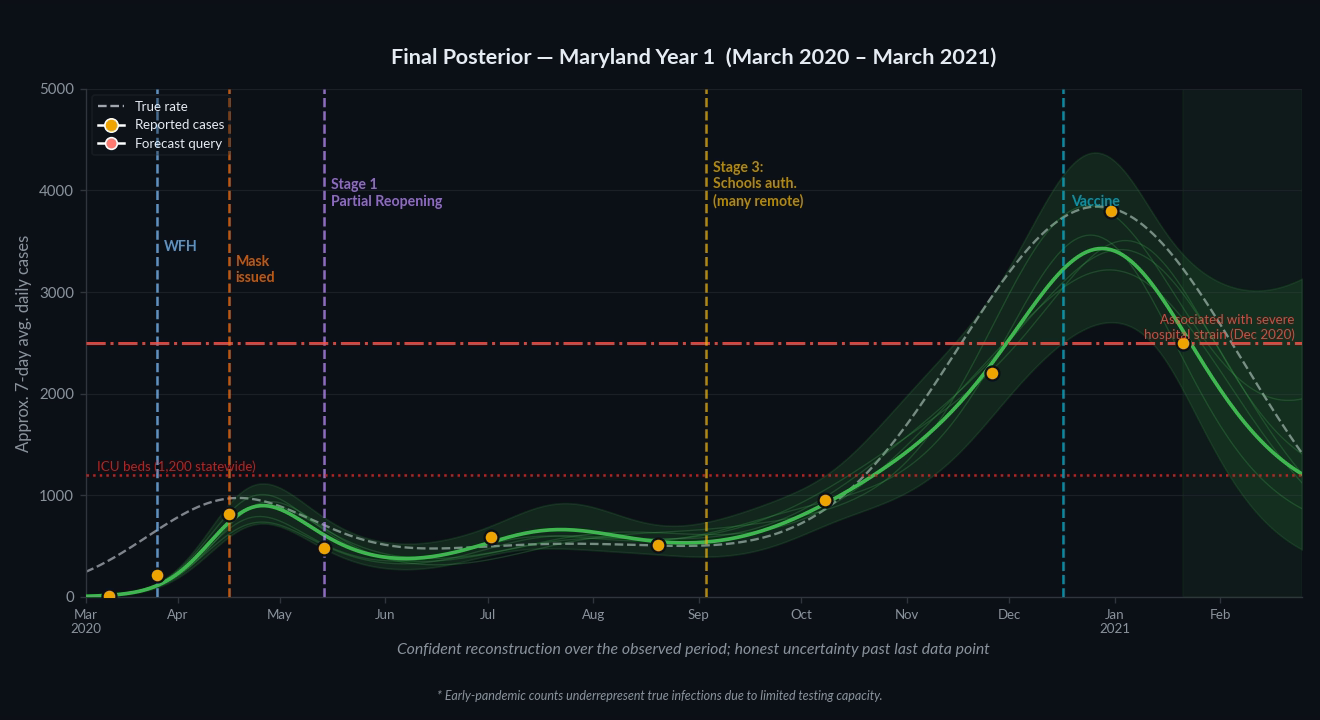
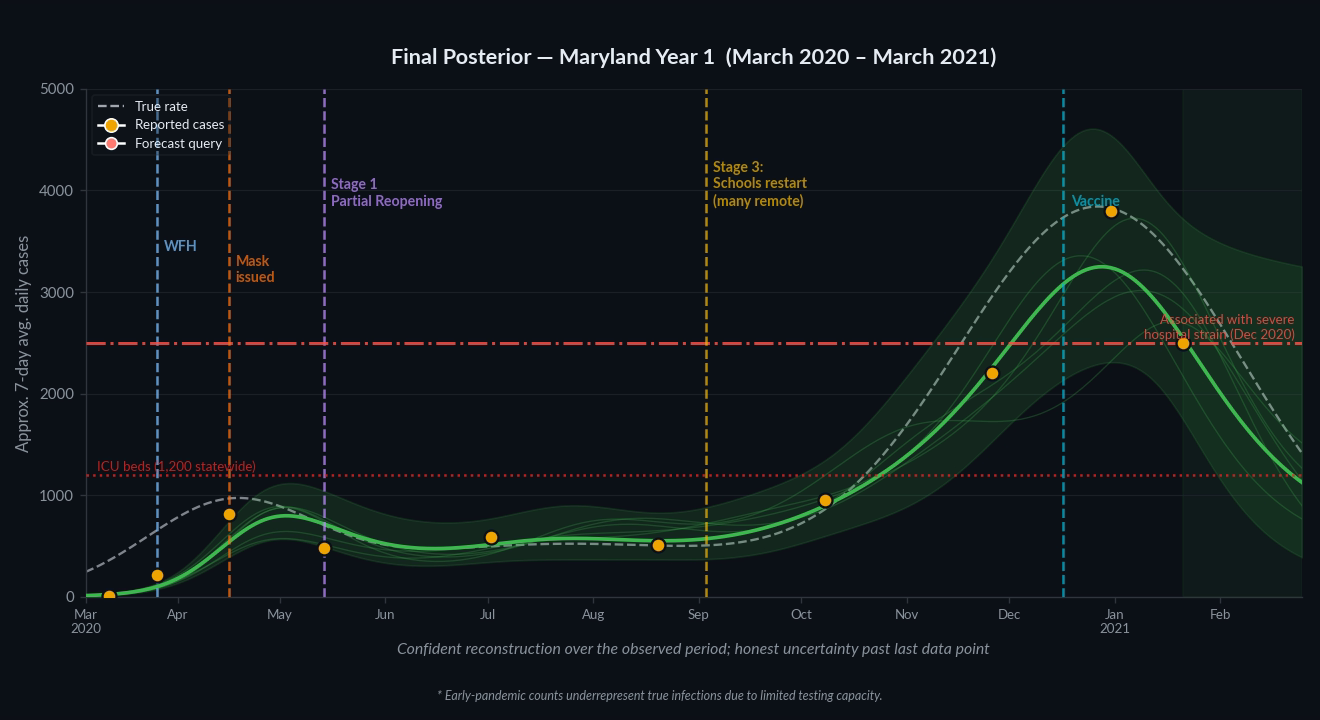
updating fonts

diff --git a/movid_forecasting_example.py b/movid_forecasting_example.py
@@ -83,7 +83,7 @@ SAMPLE_SEED       = 42     # RNG seed — change to see different plausible samp
 # ── GP kernel ─────────────────────────────────────────────────────────────────
 RBF_LENGTH_SCALE = 6.0    # smoothness: larger → longer correlation length
 RBF_LOG_STD      = 0.8    # signal amplitude in log-space (≈ log(1 + cases_std/prior_mean))
-PRIOR_MEAN       = 1000.0 # prior mean (cases/day): GP is centred here in log-space
+PRIOR_MEAN       = 600.0 # prior mean (cases/day): GP is centred here in log-space
                            # prior 95% CI: [PRIOR_MEAN/exp(1.96·RBF_LOG_STD),
                            #                PRIOR_MEAN·exp(1.96·RBF_LOG_STD)]
 
@@ -414,7 +414,7 @@ vax_label   = ax.text(VAX_WEEK    + 0.3, YMAX * 0.77, 'Vaccine',    color=VAX_C,
                       fontsize=8.5, fontweight='bold', alpha=0, zorder=7)
 mask_label  = ax.text(MASK_WEEK   + 0.3, YMAX * 0.62, 'Mask\nissued', color=MASK_C,
                       fontsize=8.5, fontweight='bold', alpha=0, zorder=7)
-school_label = ax.text(SCHOOL_WEEK + 0.3, YMAX * 0.77, 'Stage 3:\nSchools auth.\n(many remote)', color=SCH_C,
+school_label = ax.text(SCHOOL_WEEK + 0.3, YMAX * 0.77, 'Stage 3:\nSchools restart\n(many remote)', color=SCH_C,
                        fontsize=8.5, fontweight='bold', alpha=0, zorder=7)
 # GP sample curves — faint plausible functions drawn from the posterior distribution
 sample_lines = [ax.plot([], [], color=MEAN_C, linewidth=0.8, alpha=0.25, zorder=2)[0]

diff --git a/README.md b/README.md
@@ -214,7 +214,7 @@ Re-run `pixi run render` after any change to see the effect.
 | `NOISE` | 150 | Data trusted less → wider posterior, mean pulled less toward dots | Data trusted more → mean passes closer to dots, narrower CI |
 | `RBF_LENGTH_SCALE` | 6.0 weeks | Smoother curves, correlations span more weeks | Wiggly curves, each observation influences a narrower window |
 | `RBF_LOG_STD` | 0.8 | Wider prior band, model allows larger swings | Tighter prior band, model is sceptical of extreme values |
-| `PRIOR_MEAN` | 1000 | Prior centred higher; affects regions with no data | Prior centred lower |
+| `PRIOR_MEAN` | 600 | Prior centred higher; affects regions with no data | Prior centered lower |
 | `CI_MULTIPLIER` | 1.96 | Wider band (e.g. 2.58 → 99 % CI) | Narrower band (e.g. 1.0 → ~68 % CI) |
 | `N_SAMPLES` | 5 | More sample paths shown | Fewer sample paths |
 | `TRANSITION` | 25 | Slower morph between scenes | Faster morph |
